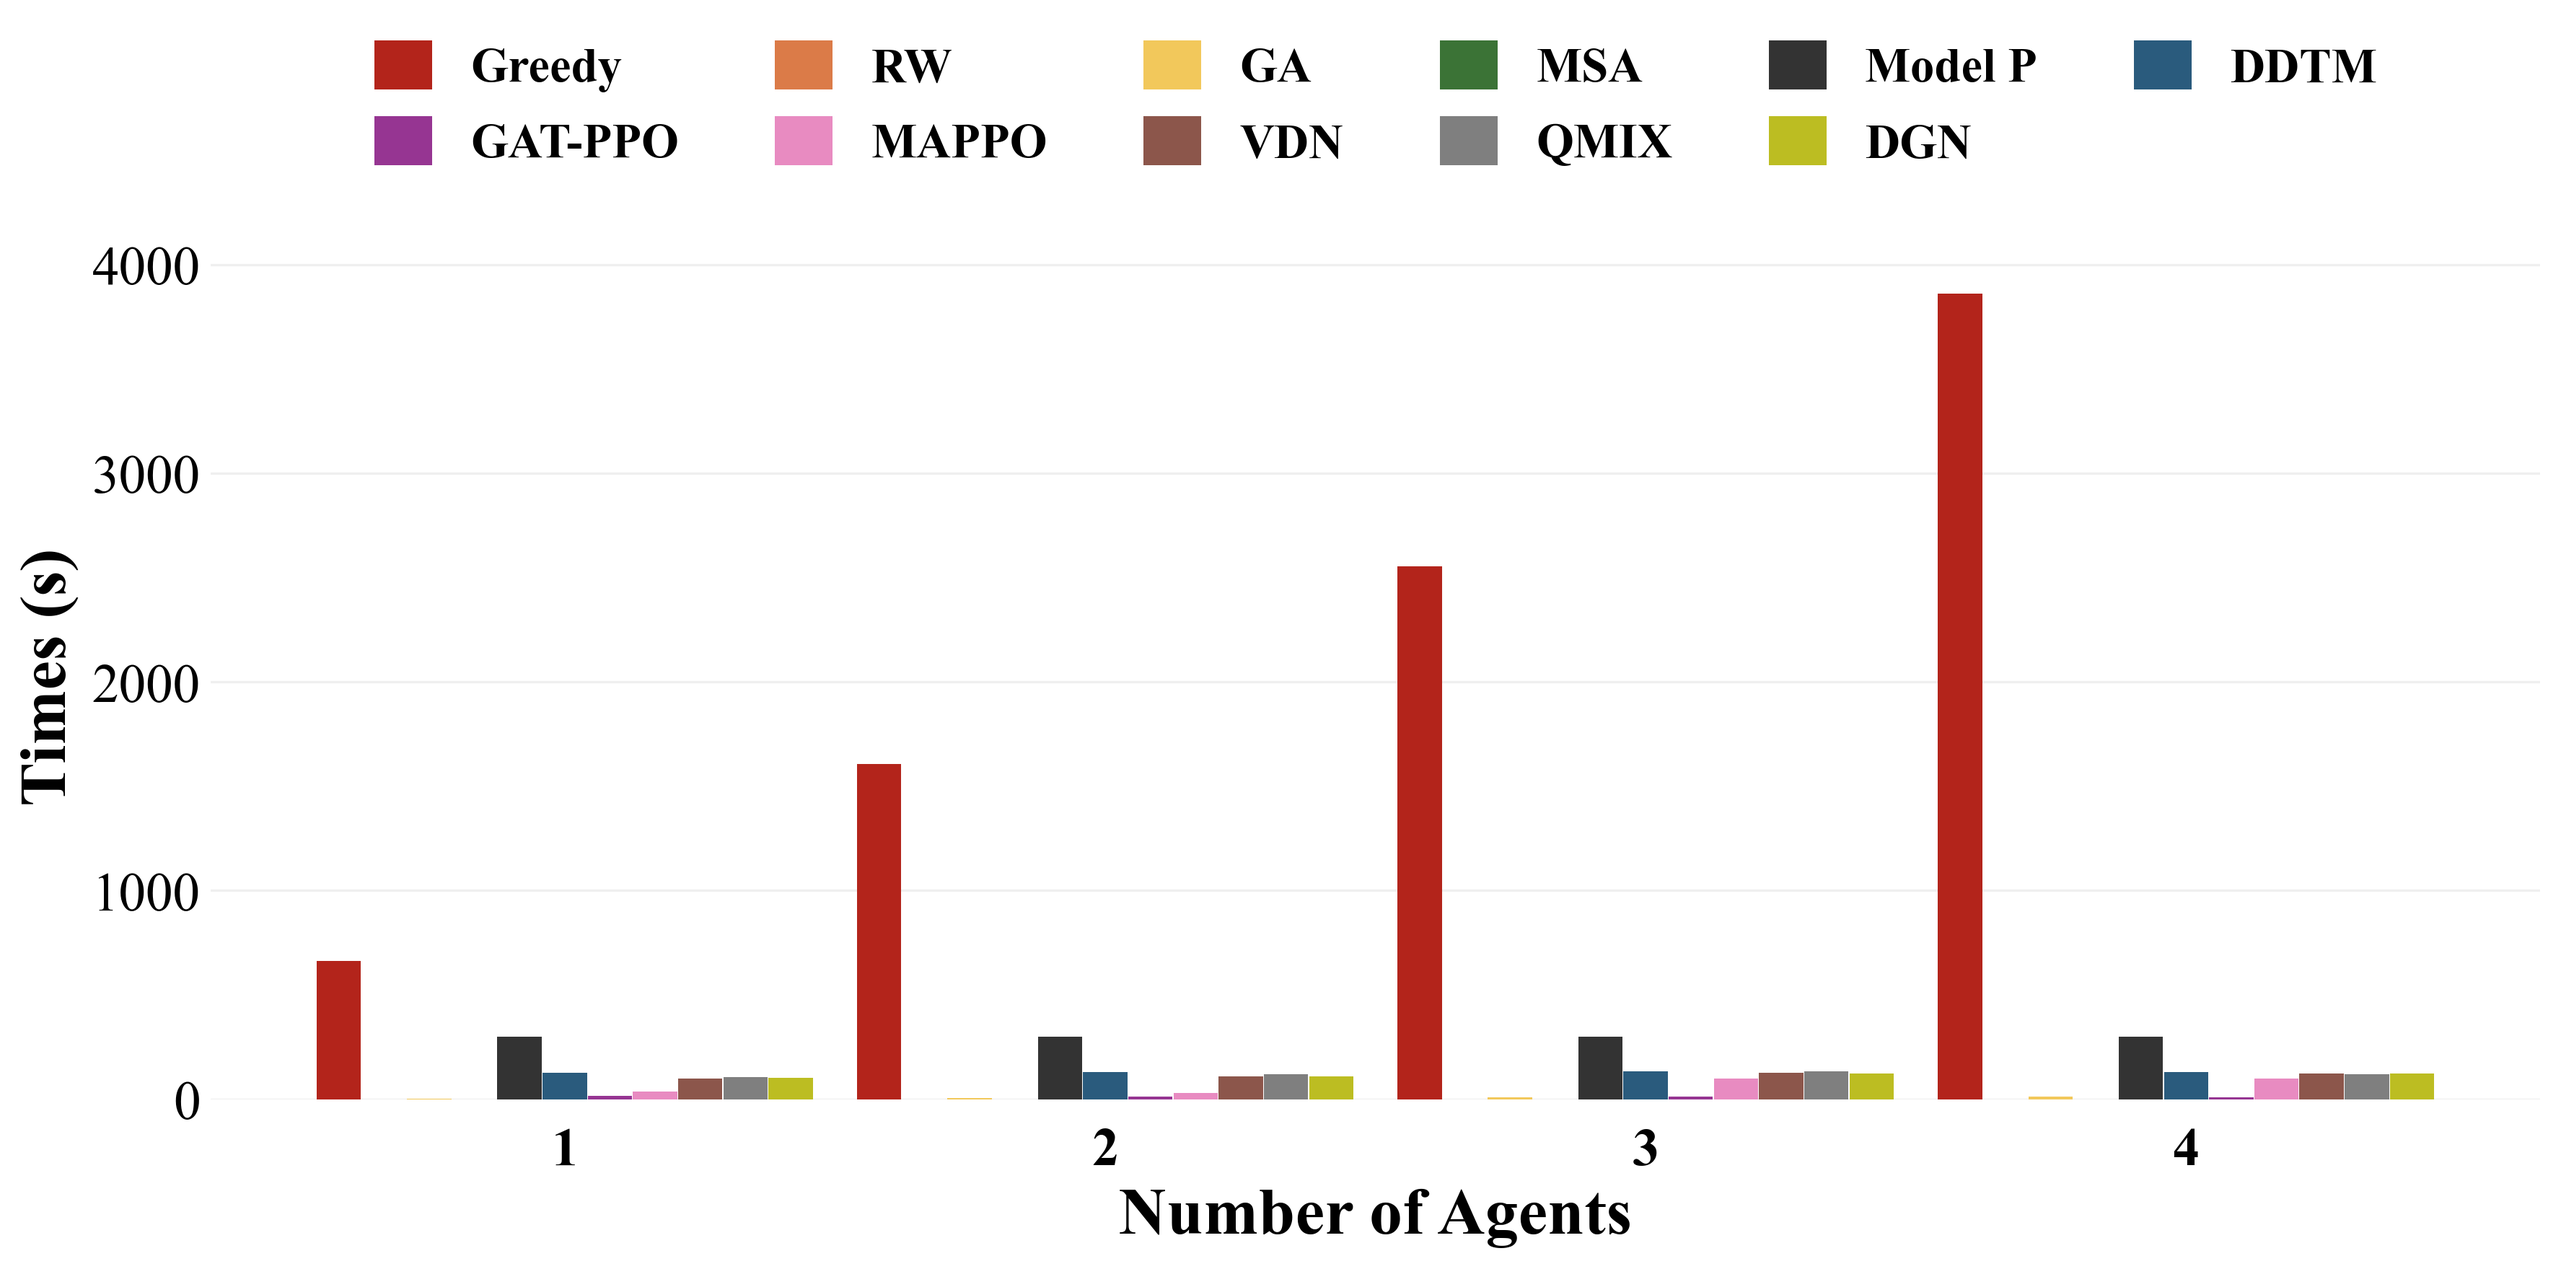
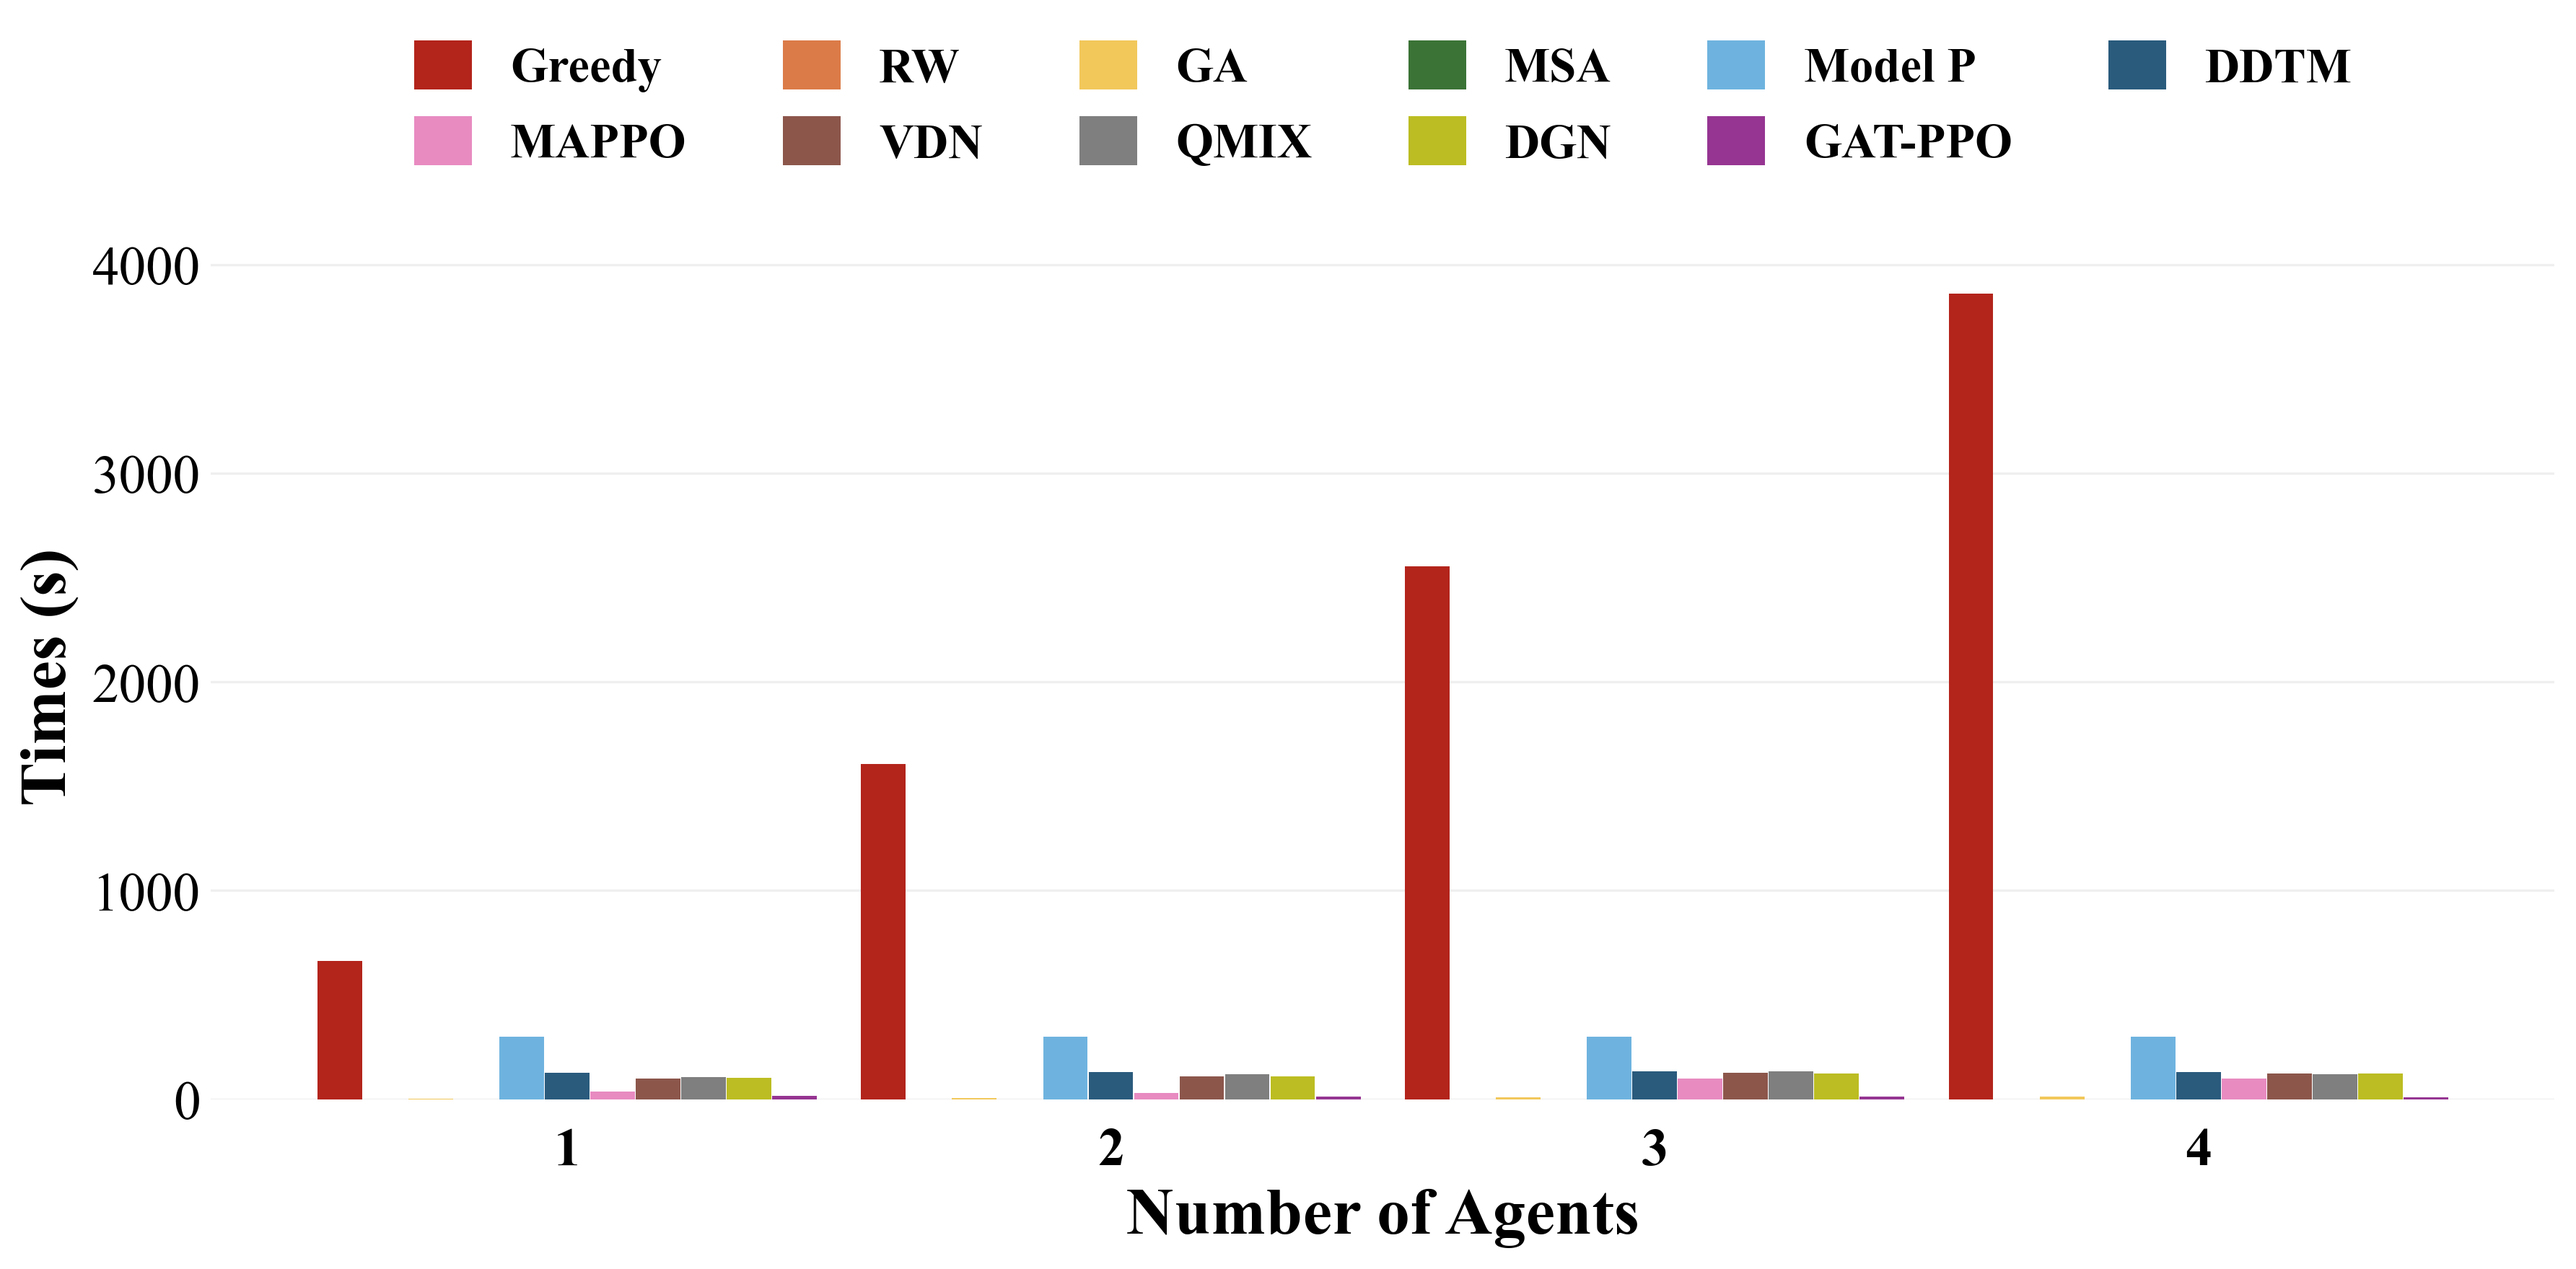
add features: tool function that can transform tables structure into figures.

diff --git a/tools/table_to_figure.py b/tools/table_to_figure.py
@@ -1,0 +1,176 @@
+import json
+import os
+import matplotlib.pyplot as plt
+import numpy as np
+import math
+
+def draw_bar_chart(saved_file_name, x_label, y_label, x_ticks, data_dict, output_dir, color_map, use_log_scale=False):
+    """
+    核心長條圖繪製函數
+    加入 use_log_scale 參數以支援對數座標軸
+    """
+    print(f"  -> 輸出圖表: {saved_file_name}.png ...")
+    fig, ax = plt.subplots(figsize=(12, 6), dpi=300)
+
+    # 強制把 GAT-PPO 排到陣列最後面
+    alg_names = list(data_dict.keys())
+    target_alg = None
+    
+    for name in alg_names:
+        if name.lower() == 'gat-ppo':
+            target_alg = name
+            break
+    
+    if target_alg:
+        alg_names.remove(target_alg)
+        alg_names.append(target_alg)
+
+    # 動態計算柱子寬度與偏移量
+    total_algs = len(alg_names)
+    total_width = 0.92 
+    bar_width = total_width / total_algs
+    offsets = np.linspace(-total_width/2 + bar_width/2, total_width/2 - bar_width/2, total_algs)
+
+    # 依照排好的 alg_names 依序畫圖
+    for i, alg_name in enumerate(alg_names):
+        alg_values = data_dict[alg_name]
+        color = color_map.get(alg_name, '#333333') 
+        
+        # 為了避免 log scale 對 0 值報錯，如果數值為 0 或小於 0，給一個極小值 (如 0.01)
+        # 不過訓練時間通常大於 0，這裡直接畫即可
+        ax.bar(x_ticks + offsets[i], alg_values, width=bar_width*0.98, 
+               label=alg_name, color=color, edgecolor='none', zorder=3)
+
+    # 設定 Y 軸為對數座標 (log scale)
+    if use_log_scale:
+        ax.set_yscale('log')
+        ax.yaxis.grid(True, which='minor', linestyle=':', alpha=0.4)
+
+    # 移除外框
+    ax.spines['top'].set_visible(False)
+    ax.spines['right'].set_visible(False)
+    ax.spines['left'].set_visible(False)
+    ax.spines['bottom'].set_visible(False)
+
+    # 設定網格與坐標軸
+    ax.xaxis.grid(False) 
+    ax.set_xticks(x_ticks)
+    
+    # 字體設定
+    ax.set_xticklabels([str(n) for n in x_ticks], fontsize=18, fontweight='bold')
+    ax.set_xlabel(x_label, fontsize=22, fontweight='bold')
+    ax.set_ylabel(y_label, fontsize=22, fontweight='bold')
+    
+    ax.tick_params(axis='y', labelsize=18, length=0)
+    ax.tick_params(axis='x', length=0, pad=10)
+
+    # 將 matplotlib 的「直向填充」改為「橫向填充」
+    handles, labels = ax.get_legend_handles_labels()
+    ncol = 6
+    
+    nrow = math.ceil(len(handles) / ncol)
+    handles_reordered = []
+    labels_reordered = []
+    
+    for c in range(ncol):
+        for r in range(nrow):
+            idx = r * ncol + c
+            if idx < len(handles):
+                handles_reordered.append(handles[idx])
+                labels_reordered.append(labels[idx])
+
+    ax.legend(handles_reordered, labels_reordered, 
+              loc='lower center', bbox_to_anchor=(0.5, 1.05), ncol=ncol, 
+              frameon=False, handlelength=1.2, handleheight=1.2,
+              prop={'size': 16, 'weight': 'bold'})
+
+    # 儲存與清理
+    plt.tight_layout()
+    output_path = os.path.join(output_dir, f"{saved_file_name}.png")
+    plt.savefig(output_path, bbox_inches='tight')
+    plt.close(fig) 
+
+
+def convert_tables_to_figures(json_filepath, output_dir="../figures"):
+    """
+    獨立讀取 Tables 資料並轉換為 Figures 的主程式
+    """
+    if not os.path.exists(output_dir):
+        os.makedirs(output_dir)
+
+    # 全局字體與參數設定
+    plt.rcParams['font.family'] = 'serif'
+    plt.rcParams['font.serif'] = ['Times New Roman'] + plt.rcParams['font.serif']
+    plt.rcParams['axes.linewidth'] = 1.0
+    plt.rcParams['axes.grid'] = True
+    plt.rcParams['grid.alpha'] = 0.3
+    plt.rcParams['grid.color'] = '#cccccc'
+
+    # 定義演算法的配色盤
+    color_map = {
+        'Greedy': '#b3241b',   
+        'RW': '#db7b48',       
+        'GA': '#f2c85b',       
+        'MSA': '#3b7336',      
+        'model P': '#6eb3df',
+        'Model P': '#6eb3df',  
+        'DDTM': '#2a5b7d',     
+        'GAT-PPO': '#963592',  
+        'MAPPO': '#e88bc1',    
+        'VDN': '#8c564b',      
+        'QMIX': "#5c997f",     
+        'DGN': '#bcbd22'       
+    }
+
+    with open(json_filepath, 'r', encoding='utf-8') as f:
+        config = json.load(f)
+
+    print("\n=== 開始將 Tables 資料轉換為長條圖 (使用 Log Scale) ===")
+    
+    if 'tables' not in config:
+        print("錯誤：JSON 檔案中找不到 'tables' 標籤。")
+        return
+
+    for table_data in config['tables']:
+        base_filename = table_data['saved_file_name']
+        col_names = table_data['column_name']
+        x_ticks = np.array(table_data['row_name'])
+        
+        # 處理 X 軸與 Y 軸標籤
+        raw_title = table_data['row_title']
+        x_label = raw_title.replace('$', '').replace('\\#', 'Number').strip()
+        
+        y_label = "Training Time (s) (Log Scale)" 
+        
+        table_dict = table_data['data']
+        
+        print(f"\n正在處理表格來源: {base_filename}")
+
+        # 遍歷每一個 column
+        for col_idx, col_name in enumerate(col_names):
+            chart_data_dict = {}
+            
+            # 抽取該 column 的資料
+            for alg_name, matrix in table_dict.items():
+                try:
+                    chart_data_dict[alg_name] = [row[col_idx] for row in matrix]
+                except IndexError:
+                    # log scale 下如果數值為 0 畫圖會消失，給一個 0.1 讓圖表不會 collapse
+                    chart_data_dict[alg_name] = [0.1] * len(x_ticks)
+
+            safe_col_name = col_name.replace(" ", "_").replace("(", "").replace(")", "")
+            
+            if len(col_names) > 1:
+                new_filename = f"{base_filename}_{safe_col_name}"
+            else:
+                new_filename = base_filename
+
+            # 核心繪圖函數，開啟 use_log_scale=True
+            draw_bar_chart(new_filename, x_label, y_label, x_ticks, chart_data_dict, output_dir, color_map, use_log_scale=True)
+
+    print(f"\n=== 所有 Table 轉換圖表皆已匯出至 '{output_dir}/' 資料夾中 ===")
+
+
+if __name__ == "__main__":
+    # 執行轉換程式
+    convert_tables_to_figures("../experiments_data.json", output_dir="../figures")

diff --git a/tools/plot_all_figures.py b/tools/plot_all_figures.py
@@ -2,6 +2,7 @@ import json
 import os
 import matplotlib.pyplot as plt
 import numpy as np
+import math
 
 def generate_academic_plots(json_filepath, output_dir="../figures"):
     if not os.path.exists(output_dir):
@@ -15,13 +16,14 @@ def generate_academic_plots(json_filepath, output_dir="../figures"):
     plt.rcParams['grid.alpha'] = 0.3
     plt.rcParams['grid.color'] = '#cccccc'
 
-    # 定義 11 種演算法的配色盤
+    # 定義演算法的配色盤
     color_map = {
         'Greedy': '#b3241b',   
         'RW': '#db7b48',       
         'GA': '#f2c85b',       
         'MSA': '#3b7336',      
-        'model P': '#6eb3df',  
+        'model P': '#6eb3df',
+        'Model P': '#6eb3df',
         'DDTM': '#2a5b7d',     
         'GAT-PPO': '#963592',  
         'MAPPO': '#e88bc1',    
@@ -44,15 +46,30 @@ def generate_academic_plots(json_filepath, output_dir="../figures"):
 
         fig, ax = plt.subplots(figsize=(12, 6), dpi=300)
 
-        # 動態計算柱子寬度與偏移量
-        total_algs = len(data_dict)
+        # 強制把 GAT-PPO 排到陣列最後面
+        alg_names = list(data_dict.keys())
+        target_alg = None
         
+        # 尋找 GAT-PPO
+        for name in alg_names:
+            if name.lower() == 'gat-ppo':
+                target_alg = name
+                break
+        
+        # 如果有找到，就先移除它，再把它加到最後面 (確保柱子畫在最右邊)
+        if target_alg:
+            alg_names.remove(target_alg)
+            alg_names.append(target_alg)
+
+        # 動態計算柱子寬度與偏移量
+        total_algs = len(alg_names)
         total_width = 0.92 
         bar_width = total_width / total_algs
         offsets = np.linspace(-total_width/2 + bar_width/2, total_width/2 - bar_width/2, total_algs)
 
-        # 依序畫出每個演算法的柱狀圖
-        for i, (alg_name, alg_values) in enumerate(data_dict.items()):
+        # 依照排好的 alg_names 依序畫圖
+        for i, alg_name in enumerate(alg_names):
+            alg_values = data_dict[alg_name]
             color = color_map.get(alg_name, '#333333') 
             
             ax.bar(x_ticks + offsets[i], alg_values, width=bar_width*0.98, 
@@ -68,7 +85,7 @@ def generate_academic_plots(json_filepath, output_dir="../figures"):
         ax.xaxis.grid(False) 
         ax.set_xticks(x_ticks)
         
-        # 保持放大的字體設定
+        # 放大的字體設定
         ax.set_xticklabels([str(n) for n in x_ticks], fontsize=18, fontweight='bold')
         ax.set_xlabel(x_label, fontsize=22, fontweight='bold')
         ax.set_ylabel(y_label, fontsize=22, fontweight='bold')
@@ -76,15 +93,25 @@ def generate_academic_plots(json_filepath, output_dir="../figures"):
         ax.tick_params(axis='y', labelsize=18, length=0)
         ax.tick_params(axis='x', length=0, pad=10)
 
-        # 取得 handles 與 labels
+        # 將 matplotlib 的「直向填充」改為「橫向填充」
         handles, labels = ax.get_legend_handles_labels()
         ncol = 6
         
-        # 將 1D 列表依照欄位交錯排列
-        handles_reordered = [h for i in range(ncol) for h in handles[i::ncol]]
-        labels_reordered = [l for i in range(ncol) for l in labels[i::ncol]]
+        # 計算總共需要幾列 (如 11 個演算法 / 6 = 2 列)
+        nrow = math.ceil(len(handles) / ncol)
+        
+        handles_reordered = []
+        labels_reordered = []
+        
+        # 透過矩陣轉置的數學邏輯，預先將陣列洗牌
+        for c in range(ncol):
+            for r in range(nrow):
+                idx = r * ncol + c
+                if idx < len(handles):
+                    handles_reordered.append(handles[idx])
+                    labels_reordered.append(labels[idx])
 
-        # 傳入重新排序後的 handles 與 labels
+        # 傳入洗牌後的結果
         ax.legend(handles_reordered, labels_reordered, 
                   loc='lower center', bbox_to_anchor=(0.5, 1.05), ncol=ncol, 
                   frameon=False, handlelength=1.2, handleheight=1.2,
